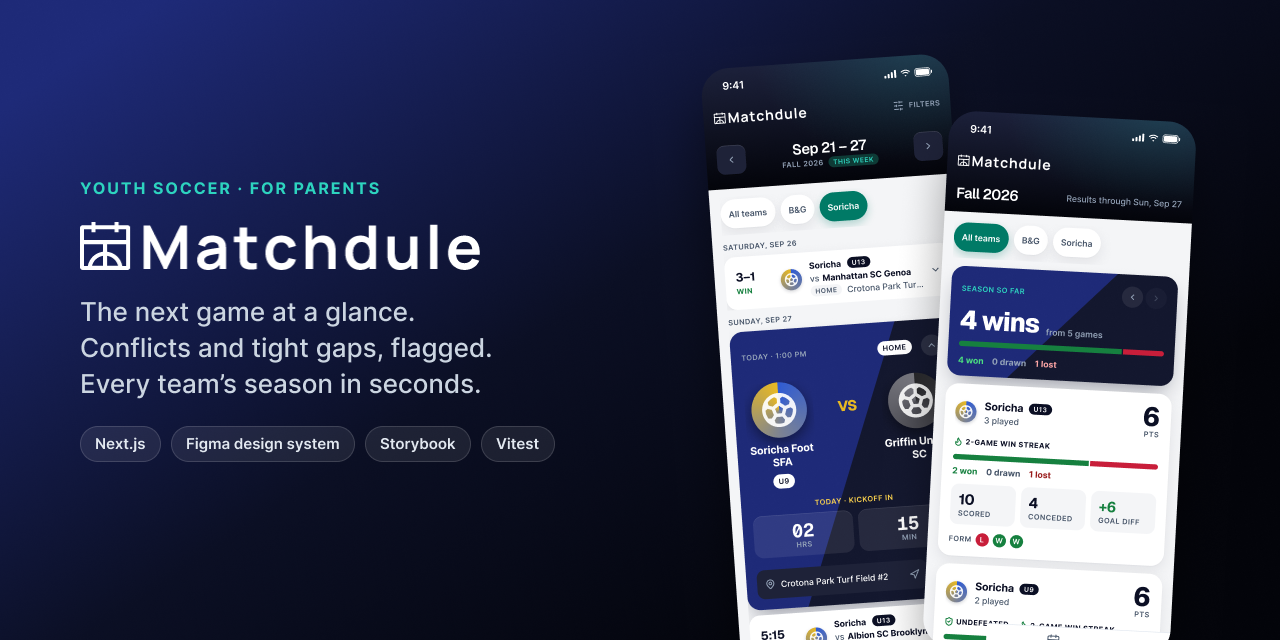
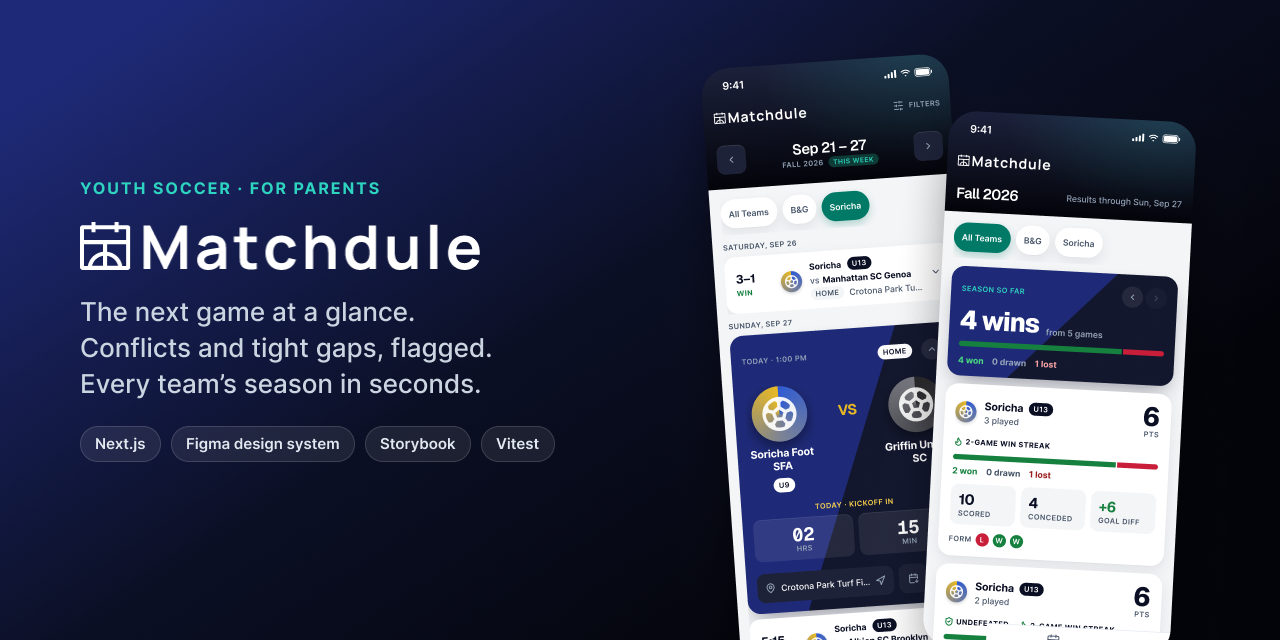
docs: refresh README screens and preview images
- README: one combined screens image (docs/screenshots/readme-screens.png)
  replaces the 3-column table, which GitHub shrank unevenly; captions
  move to a list
- Remove the three individual screenshots it replaces
- Re-export social-preview, opengraph-image and twitter-image with
  corrected team tab labels (All Teams · B&G · Soricha)

diff --git a/README.md b/README.md
@@ -11,10 +11,12 @@ A phone-first schedule app for youth soccer parents. Matchdule pulls league sche
 
 ## 📱 Screens
 
-|                                               Schedule                                               |                                          Season                                           |                                   Filters                                    |
-| :--------------------------------------------------------------------------------------------------: | :---------------------------------------------------------------------------------------: | :--------------------------------------------------------------------------: |
-| <img src="docs/screenshots/schedule.png" width="240" alt="Schedule with the next game highlighted">  | <img src="docs/screenshots/season.png" width="240" alt="Season snapshot with team cards"> |   <img src="docs/screenshots/filters.png" width="240" alt="Filter sheet">    |
-| The next game is a dark "Versus" card with a countdown; everything else collapses to scannable rows. |     Each team's season at a glance: points, a W/D/L bar, form, and achievement flags.     | A bottom sheet that prevents zero-result combinations before you apply them. |
+<img src="docs/screenshots/readme-screens.png" alt="Schedule, Season, Filters and Add to calendar screens">
+
+- **Schedule** — the next game is a dark "Versus" card with a countdown; everything else collapses to scannable rows.
+- **Season** — each team's season at a glance: points, a W/D/L bar, form, and achievement flags.
+- **Filters** — a bottom sheet that prevents zero-result combinations before you apply them.
+- **Add to calendar** — one tap adds a game to Apple, Outlook or Google Calendar, or subscribes to every game for a team.
 
 ## 🏗 Architecture & Data Pipeline
 
